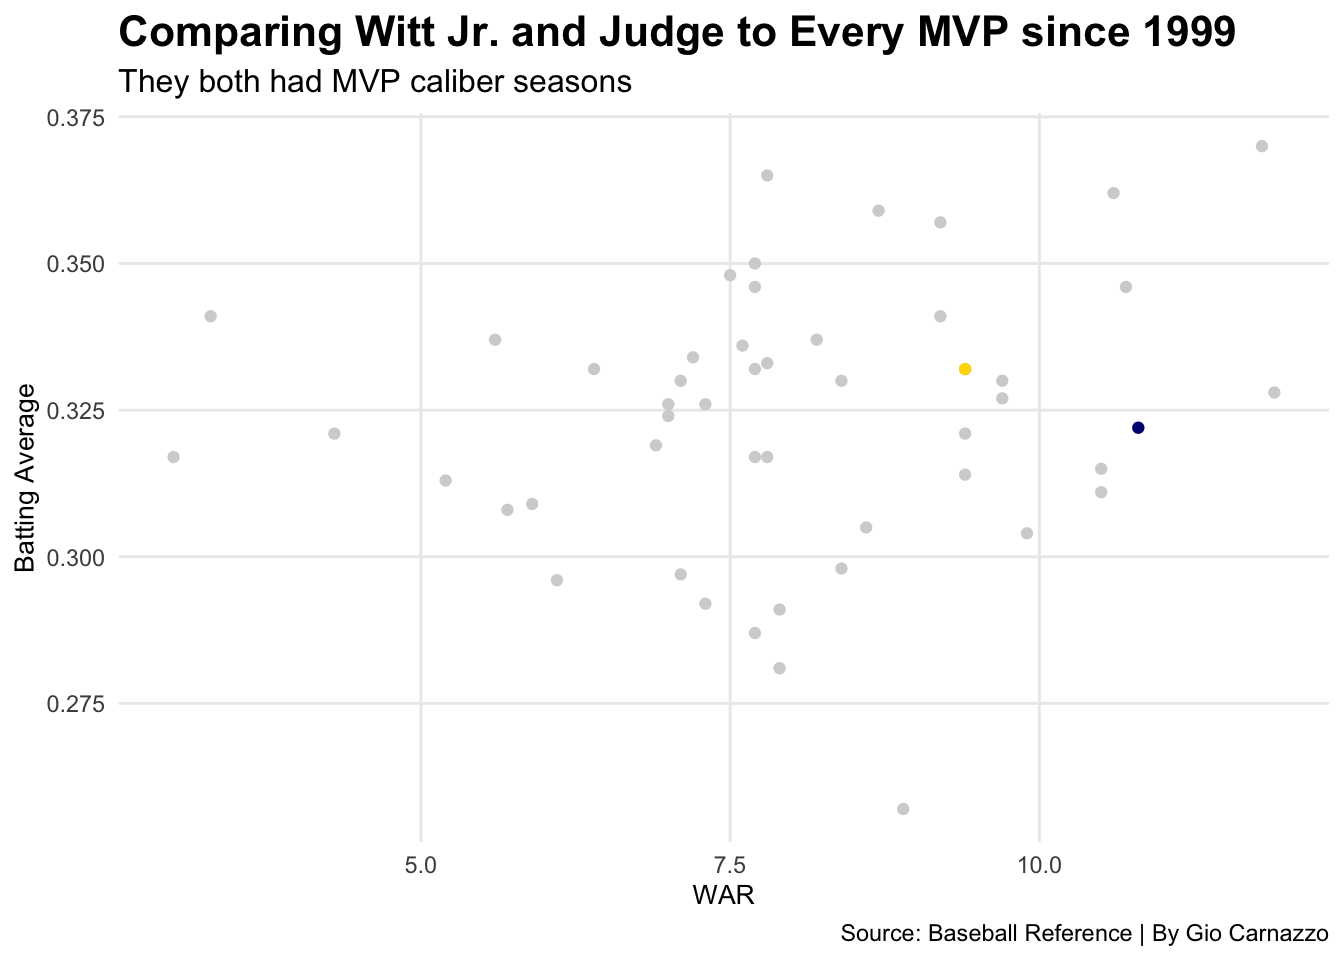
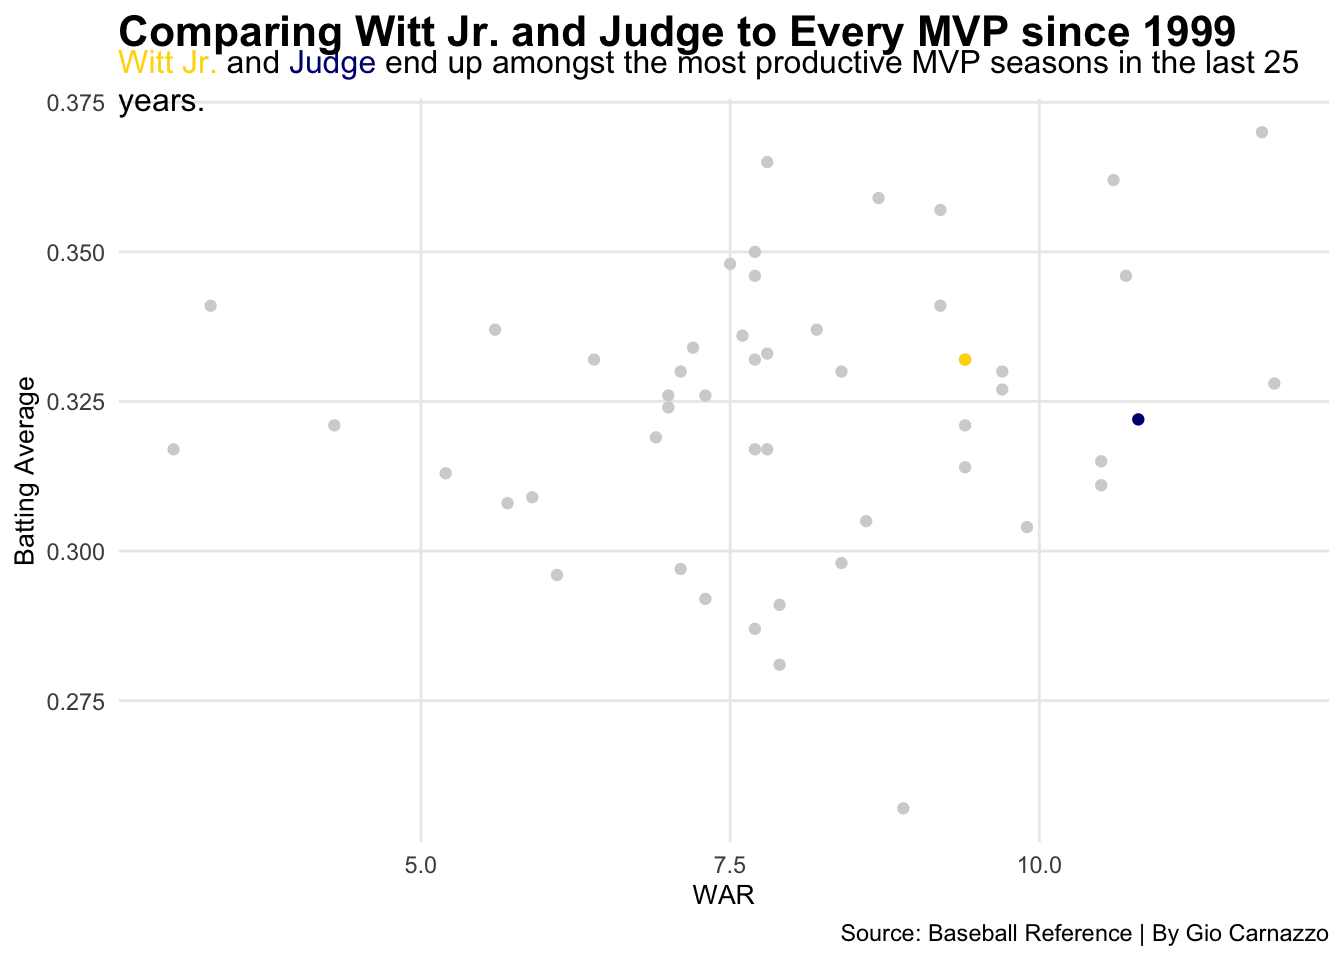
UPGRADES COLOR EDITION

diff --git a/posts/bobby-witt-jr-baseball-mlb-mvp-race/index.html b/posts/bobby-witt-jr-baseball-mlb-mvp-race/index.html
@@ -297,7 +297,7 @@ $ `Player-additional` &lt;chr&gt; "judgeaa01", "wittbo02", "ohtansh01", "hendegu
 <span id="cb8-22"><a href="#cb8-22" aria-hidden="true" tabindex="-1"></a>  <span class="fu">coord_flip</span>() <span class="sc">+</span></span>
 <span id="cb8-23"><a href="#cb8-23" aria-hidden="true" tabindex="-1"></a>  <span class="fu">labs</span>(</span>
 <span id="cb8-24"><a href="#cb8-24" aria-hidden="true" tabindex="-1"></a>    <span class="at">title =</span> <span class="st">"Bobby Witt Jr. Led the MLB in Hits"</span>,</span>
-<span id="cb8-25"><a href="#cb8-25" aria-hidden="true" tabindex="-1"></a>    <span class="at">subtitle =</span> <span class="st">"Witt Jr. outpaced Judge by a wide margin in 2024"</span>,</span>
+<span id="cb8-25"><a href="#cb8-25" aria-hidden="true" tabindex="-1"></a>    <span class="at">subtitle =</span> <span class="st">"In 2024, &lt;span style = 'color:gold;'&gt;Witt Jr.&lt;/span&gt; outpaced &lt;span style = 'color:navy;'&gt;Judge&lt;/span&gt; by a decent margin in total hits."</span>,</span>
 <span id="cb8-26"><a href="#cb8-26" aria-hidden="true" tabindex="-1"></a>    <span class="at">caption =</span> <span class="st">"Sources: Baseball Reference | By Gio Carnazzo"</span>,</span>
 <span id="cb8-27"><a href="#cb8-27" aria-hidden="true" tabindex="-1"></a>    <span class="at">x =</span> <span class="st">"MVP Candidates"</span>,</span>
 <span id="cb8-28"><a href="#cb8-28" aria-hidden="true" tabindex="-1"></a>    <span class="at">y =</span> <span class="st">"Hits"</span>,</span>
@@ -305,7 +305,7 @@ $ `Player-additional` &lt;chr&gt; "judgeaa01", "wittbo02", "ohtansh01", "hendegu
 <span id="cb8-30"><a href="#cb8-30" aria-hidden="true" tabindex="-1"></a>  <span class="fu">theme</span>(</span>
 <span id="cb8-31"><a href="#cb8-31" aria-hidden="true" tabindex="-1"></a>    <span class="at">plot.title =</span> <span class="fu">element_text</span>(<span class="at">size =</span> <span class="dv">20</span>, <span class="at">face =</span> <span class="st">"bold"</span>),</span>
 <span id="cb8-32"><a href="#cb8-32" aria-hidden="true" tabindex="-1"></a>    <span class="at">axis.title =</span> <span class="fu">element_text</span>(<span class="at">size =</span> <span class="dv">16</span>),</span>
-<span id="cb8-33"><a href="#cb8-33" aria-hidden="true" tabindex="-1"></a>    <span class="at">plot.subtitle =</span> <span class="fu">element_text</span>(<span class="at">size =</span> <span class="dv">12</span>),</span>
+<span id="cb8-33"><a href="#cb8-33" aria-hidden="true" tabindex="-1"></a>    <span class="at">plot.subtitle =</span> <span class="fu">element_textbox_simple</span>(<span class="at">size =</span> <span class="dv">10</span>),</span>
 <span id="cb8-34"><a href="#cb8-34" aria-hidden="true" tabindex="-1"></a>    <span class="at">panel.grid.minor =</span> <span class="fu">element_blank</span>()</span>
 <span id="cb8-35"><a href="#cb8-35" aria-hidden="true" tabindex="-1"></a>  )</span></code><button title="Copy to Clipboard" class="code-copy-button"><i class="bi"></i></button></pre></div>
 </details>
@@ -378,11 +378,11 @@ $ `-9999` &lt;chr&gt; "bobbywitt01", "judgeaa01", "ohtansh01", "acunaro01", "jud
 <span id="cb13-14"><a href="#cb13-14" aria-hidden="true" tabindex="-1"></a>       <span class="at">x =</span> <span class="st">"WAR"</span>,</span>
 <span id="cb13-15"><a href="#cb13-15" aria-hidden="true" tabindex="-1"></a>       <span class="at">y =</span> <span class="st">"Batting Average"</span>, </span>
 <span id="cb13-16"><a href="#cb13-16" aria-hidden="true" tabindex="-1"></a>       <span class="at">title =</span> <span class="st">"Comparing Witt Jr. and Judge to Every MVP since 1999"</span>,</span>
-<span id="cb13-17"><a href="#cb13-17" aria-hidden="true" tabindex="-1"></a>       <span class="at">subtitle =</span> <span class="st">"They both had MVP caliber seasons"</span>,</span>
+<span id="cb13-17"><a href="#cb13-17" aria-hidden="true" tabindex="-1"></a>       <span class="at">subtitle =</span> <span class="st">"&lt;span style = 'color:gold;'&gt;Witt Jr.&lt;/span&gt; and &lt;span style = 'color:navy;'&gt;Judge&lt;/span&gt; end up amongst the most productive MVP seasons in the last 25 years."</span>,</span>
 <span id="cb13-18"><a href="#cb13-18" aria-hidden="true" tabindex="-1"></a>       <span class="at">caption=</span><span class="st">"Source: Baseball Reference | By Gio Carnazzo"</span>) <span class="sc">+</span></span>
 <span id="cb13-19"><a href="#cb13-19" aria-hidden="true" tabindex="-1"></a>  <span class="fu">theme</span>(</span>
 <span id="cb13-20"><a href="#cb13-20" aria-hidden="true" tabindex="-1"></a>    <span class="at">plot.title =</span> <span class="fu">element_text</span>(<span class="at">size =</span> <span class="dv">16</span>, <span class="at">face =</span> <span class="st">"bold"</span>),</span>
-<span id="cb13-21"><a href="#cb13-21" aria-hidden="true" tabindex="-1"></a>    <span class="at">plot.subtitle =</span> <span class="fu">element_text</span>(<span class="at">size =</span> <span class="dv">12</span>),</span>
+<span id="cb13-21"><a href="#cb13-21" aria-hidden="true" tabindex="-1"></a>    <span class="at">plot.subtitle =</span> <span class="fu">element_textbox_simple</span>(<span class="at">size =</span> <span class="dv">12</span>),</span>
 <span id="cb13-22"><a href="#cb13-22" aria-hidden="true" tabindex="-1"></a>    <span class="at">axis.title =</span> <span class="fu">element_text</span>(<span class="at">size =</span> <span class="dv">10</span>),</span>
 <span id="cb13-23"><a href="#cb13-23" aria-hidden="true" tabindex="-1"></a>    <span class="at">panel.grid.minor =</span> <span class="fu">element_blank</span>()</span>
 <span id="cb13-24"><a href="#cb13-24" aria-hidden="true" tabindex="-1"></a>  )</span></code><button title="Copy to Clipboard" class="code-copy-button"><i class="bi"></i></button></pre></div>
@@ -395,6 +395,7 @@ $ `-9999` &lt;chr&gt; "bobbywitt01", "judgeaa01", "ohtansh01", "acunaro01", "jud
 </div>
 </div>
 </div>
+<p>This is my last plot.</p>
 
 
 

diff --git a/index.html b/index.html
@@ -200,7 +200,7 @@ window.Quarto = {
 
 <div class="quarto-listing quarto-listing-container-default" id="listing-listing">
 <div class="list quarto-listing-default">
-<div class="quarto-post image-right" data-index="0" data-categories="bWxiLGJhc2ViYWxsLGthbnNhcyBjaXR5IHJveWFscw==" data-listing-date-sort="1730790000000" data-listing-file-modified-sort="1731776344064" data-listing-date-modified-sort="NaN" data-listing-reading-time-sort="2" data-listing-word-count-sort="381">
+<div class="quarto-post image-right" data-index="0" data-categories="bWxiLGJhc2ViYWxsLGthbnNhcyBjaXR5IHJveWFscw==" data-listing-date-sort="1730790000000" data-listing-file-modified-sort="1731777725493" data-listing-date-modified-sort="NaN" data-listing-reading-time-sort="3" data-listing-word-count-sort="411">
 <div class="thumbnail">
 <p><a href="./posts/bobby-witt-jr-baseball-mlb-mvp-race/index.html" class="no-external"></a></p><a href="./posts/bobby-witt-jr-baseball-mlb-mvp-race/index.html" class="no-external">
 <p><img loading="lazy" src="./posts/bobby-witt-jr-baseball-mlb-mvp-race/image.png" class="thumbnail-image"></p>
